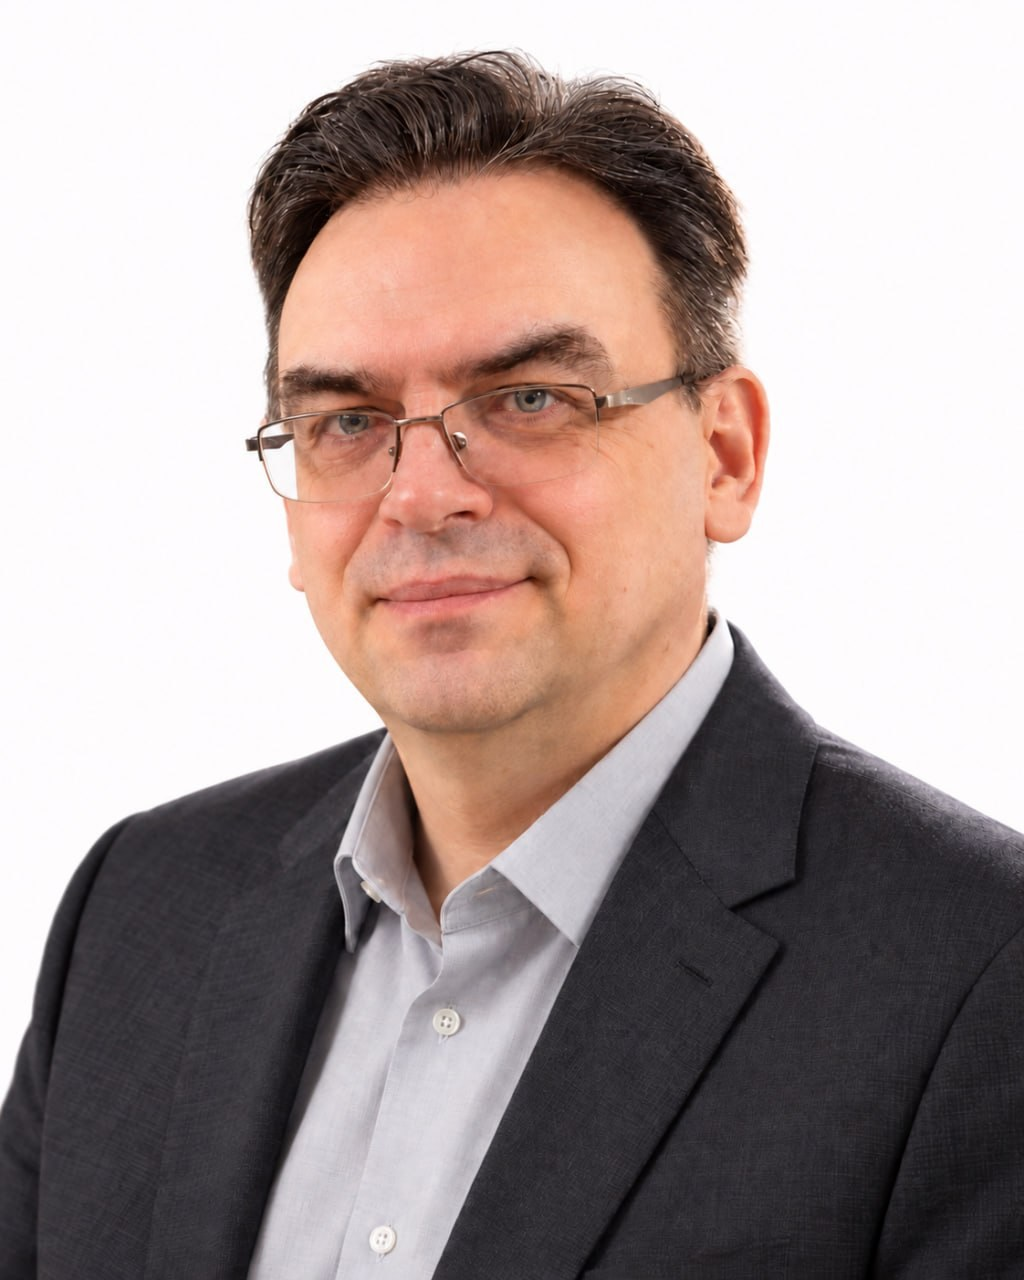
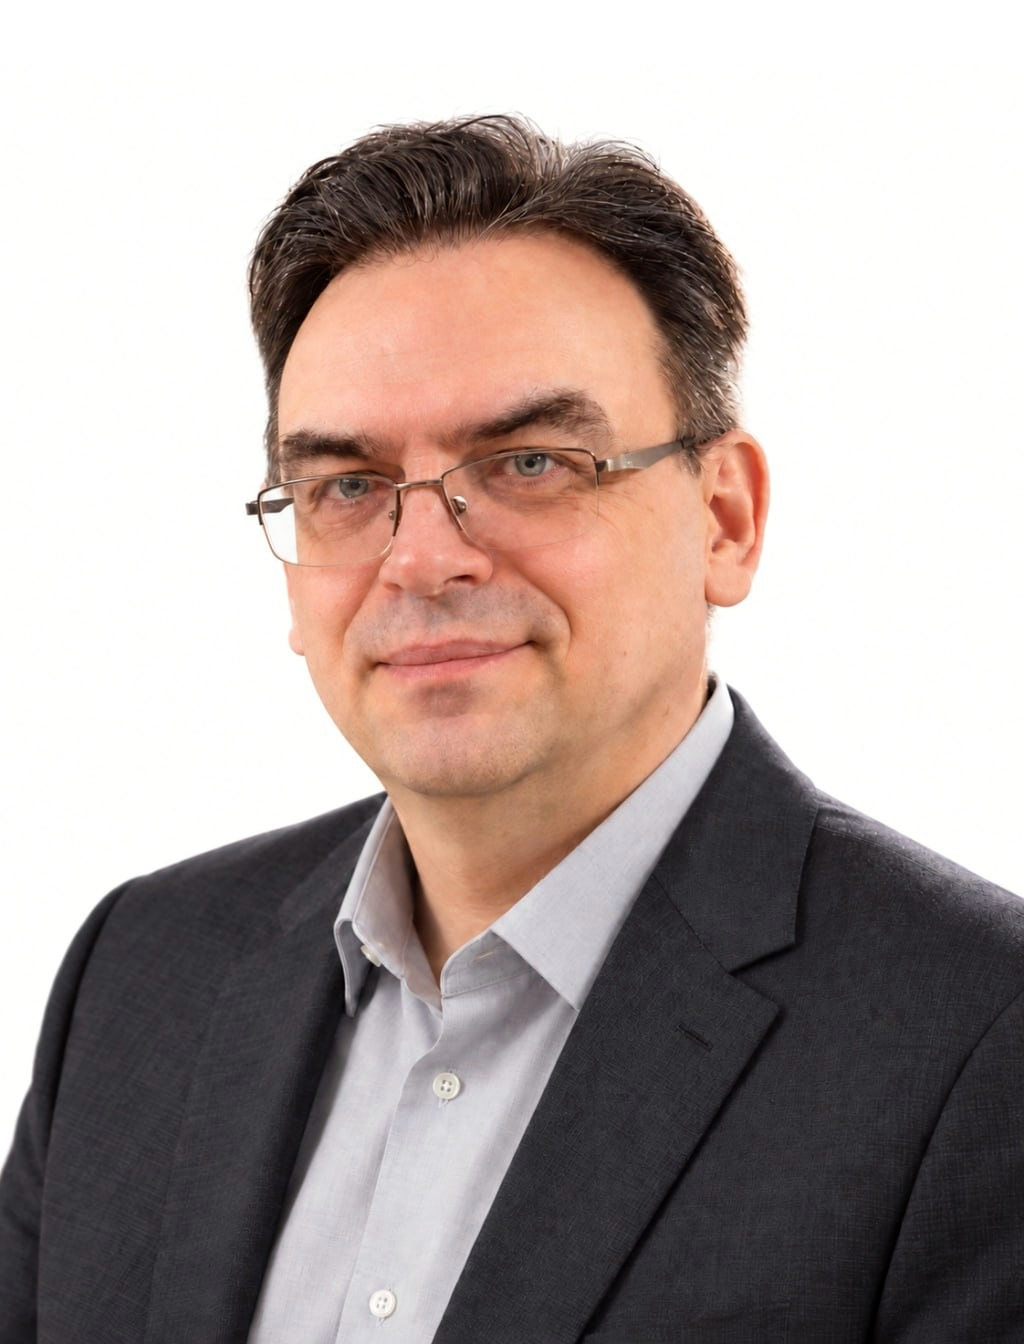
fix(hero): portrait in mobile fold + seamless white ground
Фолд. Портрет був за фолдом на всіх мобільних ширинах (видно
26-36%). Тепер: порядок ім'я -> роль -> ПОРТРЕТ -> опис, тож
обличчя потрапляє в перший екран на 100% (перевірено
360x640 .. 1440x900). Реалізовано через display:contents на
обгортці лівої колонки + order; на lg вона знову block.

Шов. Тло фото мало зелений канал на 2-3 рівні нижчий за
сторінку (254/252/253 проти 255) -> ледь рожевий прямокутник.
Вирівняно білим балансом по білій точці (множники 1.004/
1.012/1.006), людина зміщена на <=1.6 рівня.

Повітря над головою: 4.1% -> 8.6% (біла смуга 64px зверху).
Кадр на мобільному 4:5 з max-h 52vh + object-[center_6%],
на lg повертається 3:4 без обмеження.

diff --git a/src/app/page.tsx b/src/app/page.tsx
@@ -9,60 +9,78 @@ import CertIndex from "@/components/cert-index";
 function Hero() {
   return (
     <section id="top" className="gutter relative">
-      <div className="shell grid grid-cols-1 gap-y-12 pt-14 md:pt-20 lg:grid-cols-12 lg:gap-x-12">
+      {/* На мобільному порядок інший, ніж на десктопі: ім'я -> роль ->
+          ПОРТРЕТ -> опис із кнопками. Портрет мусить потрапити в перший
+          екран, бо це обличчя сайту; опис читають уже після нього. Кнопка
+          «Написати» лишається доступною в липкій шапці, тож CTA не губиться.
+
+          Технічно: обгортка лівої колонки на мобільному має display:contents,
+          тому її діти стають прямими елементами сітки й піддаються order.
+          На десктопі вона знову блок — і тримає заголовок, опис і кнопки
+          разом у лівій колонці, як було. */}
+      <div className="shell grid grid-cols-1 gap-y-8 pt-6 md:pt-8 lg:grid-cols-12 lg:gap-x-12 lg:gap-y-12 lg:pt-20">
         {/* Текстова колонка */}
-        <div className="lg:col-span-7 lg:row-start-1">
-          <h1 className="reveal display text-[clamp(2.5rem,8.5vw,6rem)]">
-            {site.name}
-          </h1>
+        <div className="contents lg:block lg:col-span-7 lg:row-start-1">
+          <div className="order-1 lg:order-none">
+            <h1 className="reveal display text-[clamp(2.5rem,8.5vw,6rem)]">
+              {site.name}
+            </h1>
 
-          <p className="reveal mt-6 max-w-xl text-lg leading-relaxed text-ink-soft md:text-xl">
-            {site.role}
-            <span aria-hidden className="mx-2 text-accent-ink">
-              ·
-            </span>
-            <span className="serif-accent text-ink">{site.orgShort}</span>
-          </p>
-
-          <p className="reveal mt-5 max-w-lg text-base leading-relaxed text-muted">
-            {site.statement}
-          </p>
-
-          <div className="reveal mt-9 flex flex-col items-stretch gap-3 sm:flex-row sm:flex-wrap sm:items-center">
-            <a
-              href="#work"
-              className="lift group inline-flex min-h-12 items-center justify-center gap-3 bg-accent-solid px-6 py-3 text-sm font-semibold text-white hover:bg-ink sm:justify-start"
-            >
-              Дивитись проєкти
-              <span
-                aria-hidden
-                className="transition-transform duration-300 group-hover:translate-y-0.5"
-              >
-                ↓
+            <p className="reveal mt-6 max-w-xl text-lg leading-relaxed text-ink-soft md:text-xl">
+              {site.role}
+              <span aria-hidden className="mx-2 text-accent-ink">
+                ·
               </span>
-            </a>
-            <a
-              href={`mailto:${site.email}`}
-              className="inline-flex min-h-12 items-center justify-center border border-line-strong px-6 py-3 text-sm font-semibold transition-colors hover:border-accent-ink hover:text-accent-ink sm:justify-start"
-            >
-              Написати листа
-            </a>
+              <span className="serif-accent text-ink">{site.orgShort}</span>
+            </p>
+          </div>
+
+          <div className="order-3 lg:order-none">
+            <p className="reveal mt-5 max-w-lg text-base leading-relaxed text-muted">
+              {site.statement}
+            </p>
+
+            <div className="reveal mt-9 flex flex-col items-stretch gap-3 sm:flex-row sm:flex-wrap sm:items-center">
+              <a
+                href="#work"
+                className="lift group inline-flex min-h-12 items-center justify-center gap-3 bg-accent-solid px-6 py-3 text-sm font-semibold text-white hover:bg-ink sm:justify-start"
+              >
+                Дивитись проєкти
+                <span
+                  aria-hidden
+                  className="transition-transform duration-300 group-hover:translate-y-0.5"
+                >
+                  ↓
+                </span>
+              </a>
+              <a
+                href={`mailto:${site.email}`}
+                className="inline-flex min-h-12 items-center justify-center border border-line-strong px-6 py-3 text-sm font-semibold transition-colors hover:border-accent-ink hover:text-accent-ink sm:justify-start"
+              >
+                Написати листа
+              </a>
+            </div>
           </div>
         </div>
 
         {/* Портрет. На десктопі займає обидва рядки сітки — так смуга
             фактів лягає під кнопки, закриваючи порожнечу ліворуч, а
             портрет лишається високим. */}
-        <div className="reveal lg:col-span-5 lg:col-start-8 lg:row-span-2 lg:row-start-1">
-          <figure className="lg:sticky lg:top-20">
-            <div className="relative aspect-[3/4] w-full overflow-hidden bg-paper-2">
+        <div className="reveal order-2 lg:order-none lg:col-span-5 lg:col-start-8 lg:row-span-2 lg:row-start-1">
+          <figure className="mx-auto w-full max-w-[440px] lg:mx-0 lg:max-w-none lg:sticky lg:top-20">
+            {/* Кадр має вміститися в перший екран, тому його висота
+                обмежена часткою вікна (max-h), а не лише пропорцією:
+                на широкому мобільному 4:5 давало 750px — більше за екран.
+                object-top тримає голову в кадрі, обрізаючи піджак.
+                На десктопі обмеження знімається — там портрет високий. */}
+            <div className="relative aspect-[4/5] max-h-[52vh] w-full overflow-hidden bg-paper-2 md:aspect-[3/4] lg:max-h-none">
               <Image
                 src={site.portrait}
                 alt={site.portraitAlt}
                 fill
                 priority
                 sizes="(max-width: 1024px) 100vw, 40vw"
-                className="object-cover object-center"
+                className="object-cover object-[center_6%] lg:object-top"
               />
             </div>
             {/* Бурштинова смуга на всю ширину — свідома базова лінія,
@@ -77,7 +95,7 @@ function Hero() {
             Факт, значення якого починається з числа, дістає велику цифру:
             «71%» очима читається за частку секунди, а той самий текст
             дрібним кеглем губиться серед інших трьох. */}
-        <dl className="reveal grid grid-cols-2 gap-x-6 gap-y-7 border-t border-line pt-8 sm:grid-cols-4 lg:col-span-7 lg:col-start-1 lg:row-start-2 lg:self-end">
+        <dl className="reveal order-4 lg:order-none grid grid-cols-2 gap-x-6 gap-y-7 border-t border-line pt-8 sm:grid-cols-4 lg:col-span-7 lg:col-start-1 lg:row-start-2 lg:self-end">
           {site.facts.map((fact) => {
             const parts = fact.v.match(/^(\d+(?:[.,]\d+)?%?)\s*(.*)$/);
             const figure = parts?.[1];
